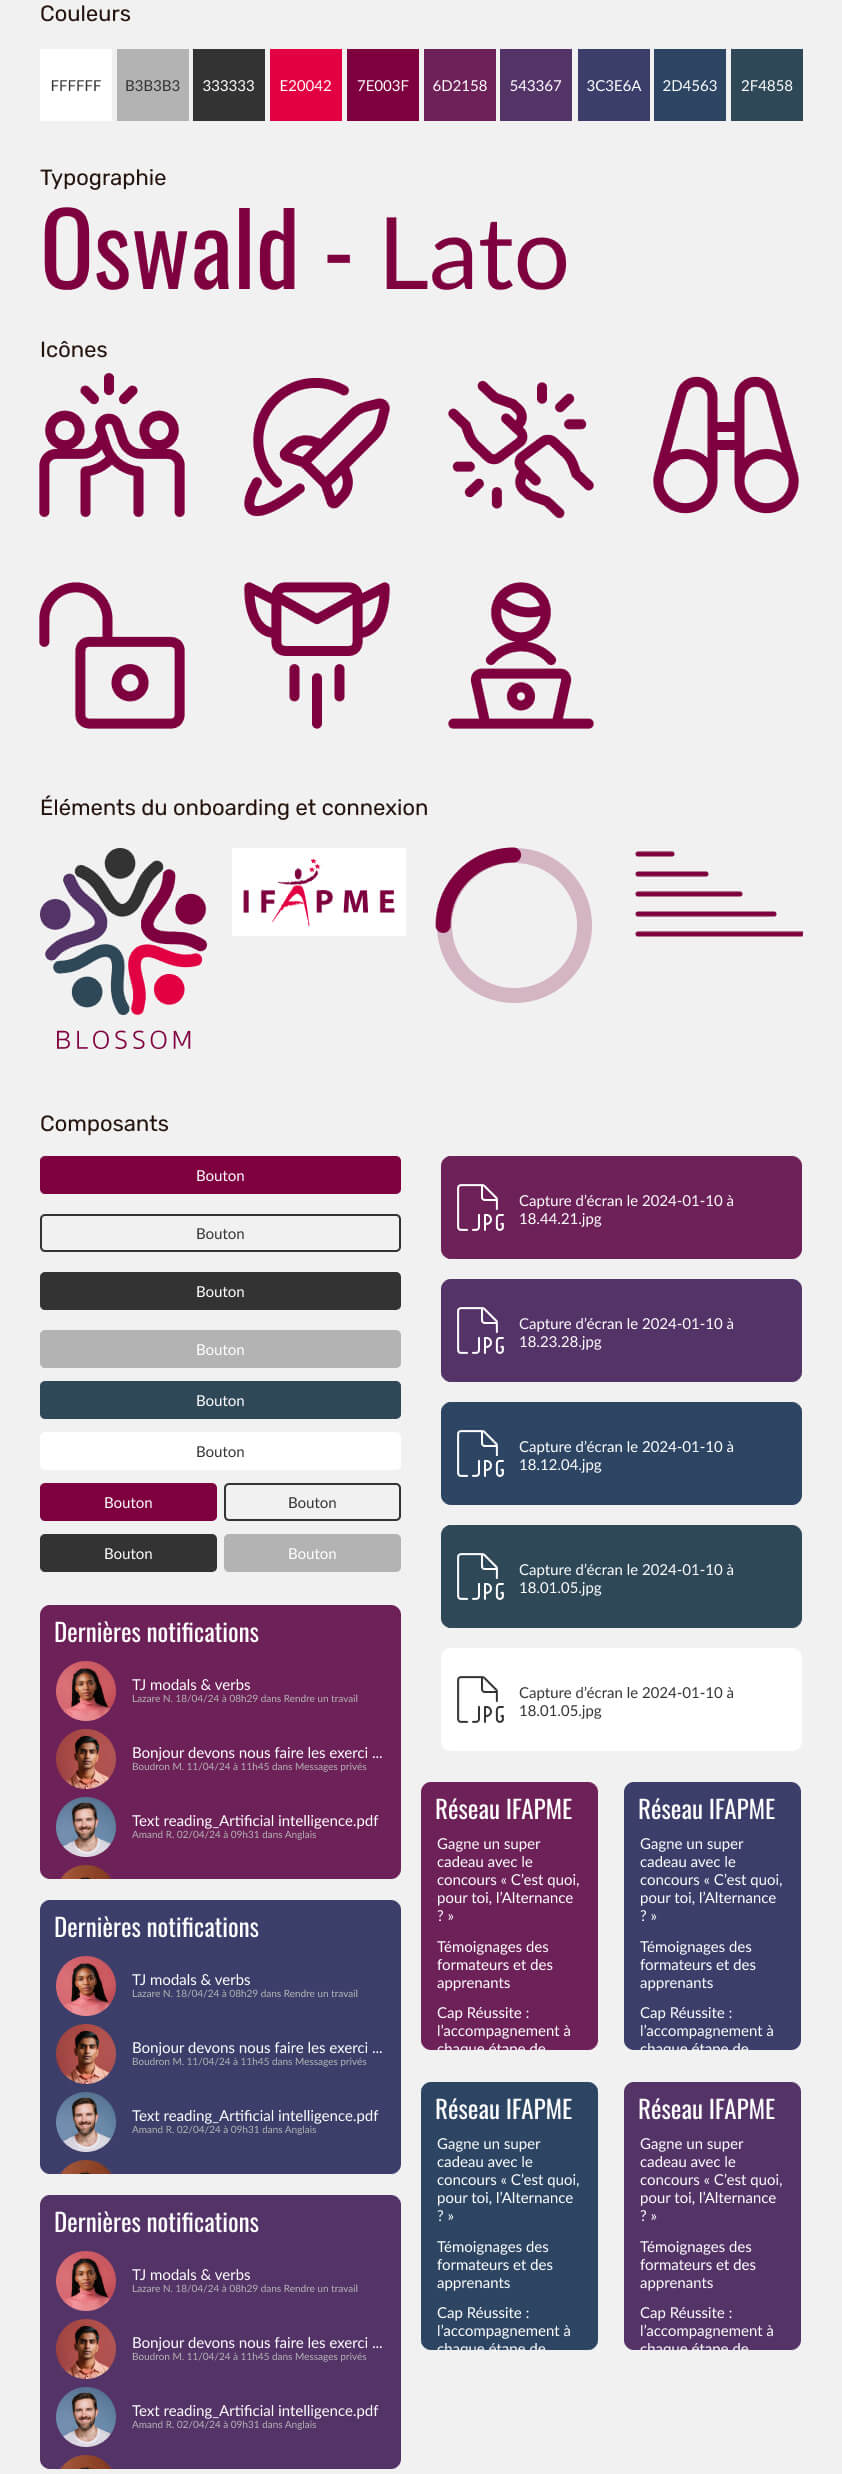
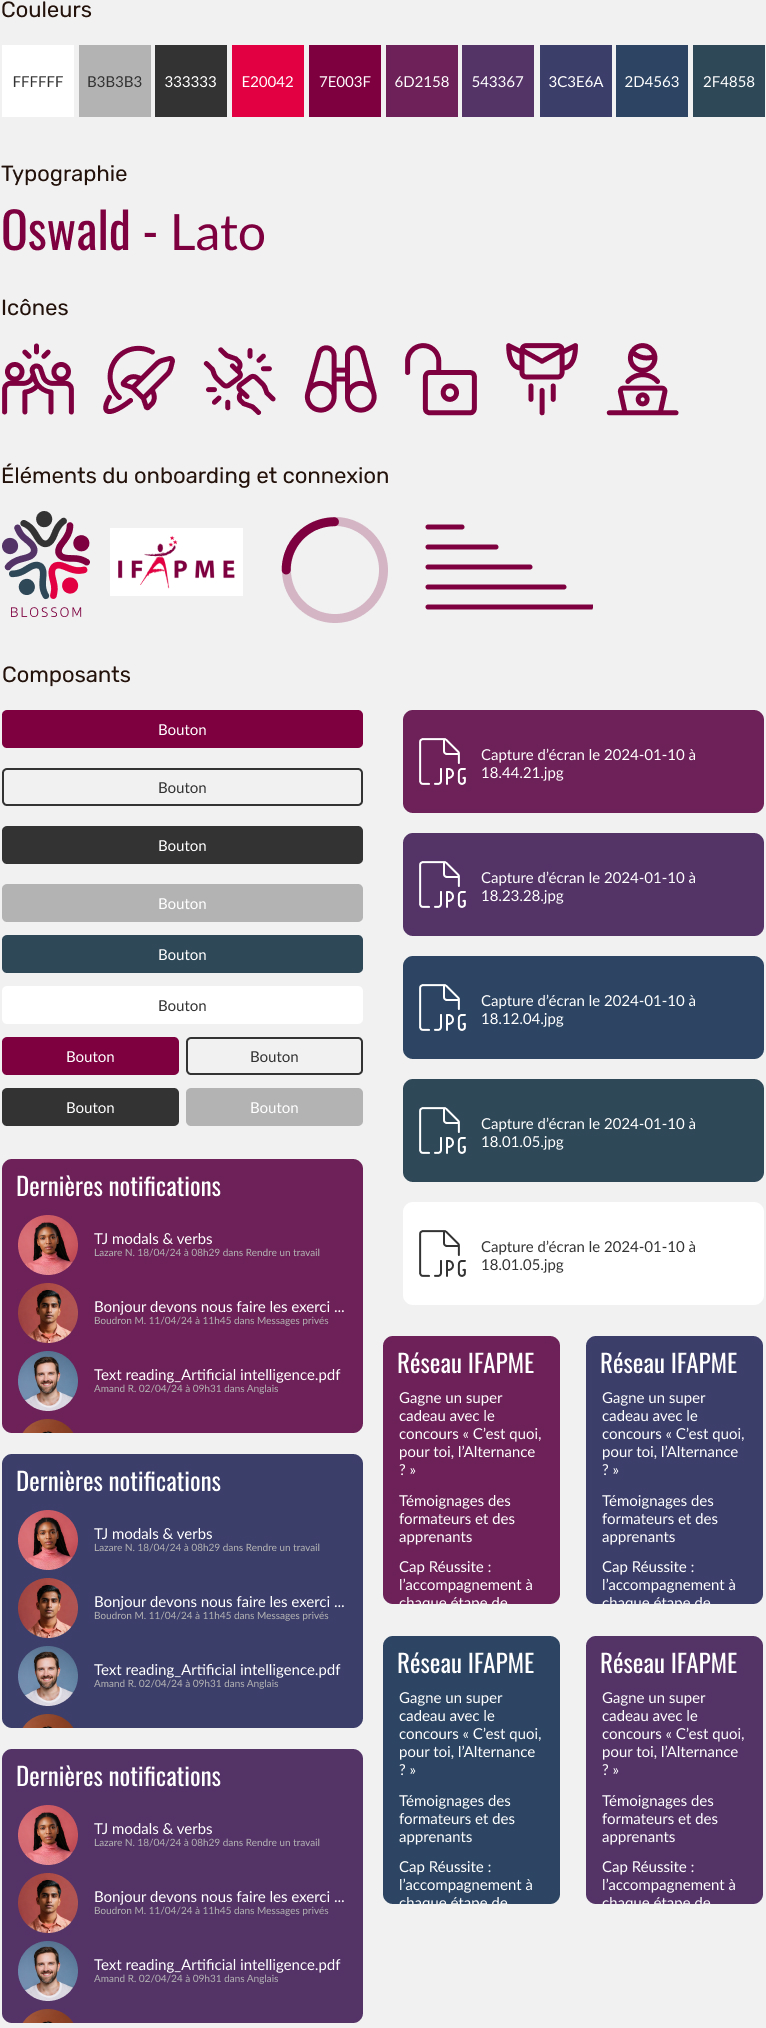
modification des images & modification responsive version mobile

diff --git a/css/styles.css b/css/styles.css
@@ -440,6 +440,7 @@ article.survey img{
     
     p {
         font-size: 12px;
+        width: 100%;
     }
 
     ul{
@@ -447,8 +448,9 @@ article.survey img{
     }
 
     h1 {
-        font-size: 150px;
+        font-size: 100px;
         margin: 0 20px;
+        width: 100%;
     }
 
     .normal_h1{
@@ -457,25 +459,33 @@ article.survey img{
     }
 
     h2 {
-        font-size: 32px;
+        font-size: 20px;
         display: block;
-        width: 470px;
+        width: 100%;
+    }
+
+    h2#h2_projects{
+        font-size: 20px;
+        display: block;
+        width: 100%;
     }
     
     h3 {
-        font-size: 20px;
-        width: 470px;
+        font-size: 18px;
+        width: 100%;
         display: inline;
     }
 
     /* Menu */
     header {
-        margin-top: 0px;
+        margin: 0px;
         background-color: #23120B;
+        width: 94%;
+        position: relative;
     }
 
     header div {
-        max-width: 480px;
+        width: 100%;
         margin: 0;
         padding: 0;
         background: none;
@@ -486,10 +496,10 @@ article.survey img{
     }
 
     nav ul li {
-        display: inline;
+        display: block;
         padding-bottom: 10px;
     }
-
+    
     nav ul li a {
         font-size: 12px;
         padding: 2px;
@@ -517,34 +527,34 @@ article.survey img{
 
     /* Introduction */
     .introduction {
-        margin-top: -100px;
+        margin-top: -170px;
     }
 
     main#homepage div.square img{
-        width: 94%;
+        width: 67%;
         margin: 0 20px 10px 20px;
     }
 
     main#homepage div.square.paragraph{
-        width: 420px;
+        width: 76%;
         height: 215px;
         margin: 0 20px;
-        padding-bottom: 0;
+        padding-bottom: 5px;
     }
 
     main#homepage div.square.paragraph a{
         font-size: 14px;
-        padding: 10px 110px;
+        padding: 10px 42px;
     }
 
     /* Testimonials */
     main#homepage section.testimonials{
-        margin: 50px 20px 0 20px;
+        margin: 50px 20px 0px 20px;
     }
 
     main#homepage div.testimonial{
         display: block;
-        width: 435px;
+        width: 100%;
     }
 
     main#homepage div.testimonial.second{
@@ -552,13 +562,13 @@ article.survey img{
     }
 
     .testimonials p{
-        width: 470px;
+        width: 100%;
     }
 
     /* Projets */
     section.projects.first_row{
         margin: 50px 20px 0 20px;
-        width: 470px;
+        width: 79%;
     }
 
     article.card img{
@@ -567,28 +577,28 @@ article.survey img{
 
     article.card{
         display: inline-block;
-        width: 430px;
+        width: 100%;
         margin-bottom: 15px;
     }
 
     section.projects.second_row{
         margin: 0px 20px;
-        width: 470px;
+        width: 79%;
     }
 
     section.projects.third_row{
         margin: 50px 20px 0 20px;
-        width: 470px;
+        width: 79%;
     }
 
     section.projects.fourth_row{
         margin: 0px 20px;
-        width: 470px;
+        width: 79%;
     }
 
     section.projects.fifth_row{
         margin: 50px 20px 0 20px;
-        width: 470px;
+        width: 79%;
     }
 
     /* About me */
@@ -599,7 +609,7 @@ article.survey img{
     div.personality{
         display: inline-block;
         vertical-align: top;
-        width: 470px;
+        width: 100%;
     }
 
     div.personality h3{
@@ -646,8 +656,8 @@ article.survey img{
         padding: 0;
     }
 
-    .informations {
-        max-width: 400px
+    .informations.a{
+        width: 100%;
     }
 
     .informations img{

diff --git a/index.html b/index.html
@@ -42,10 +42,12 @@
                     <p>“Benoit a rejoint l'équipe WeBIngecie en tant que stagiaire designer UI/UX pour une période de 3 mois. Sa maturité, son autonomie et sa capacité de réflexion nous ont déjà surpris !”</p>
                     <p class="blue_text">Héloïse Alsteens Freelance webdesigner</p>
                 </div>
+                <br>
                 <div class="testimonial second">
                     <p>“Lorem ipsum dolor sit amet, consectetur adipiscing elit, sed do eiusmod tempor incididunt ut !”</p>
                     <p class="blue_text">Evgeniya Rozhkova Former Product Designer at Bank Pumb</p>
                 </div>
+                <br>
                 <div class="testimonial third">
                     <p>“Ut enim ad minim veniam, quis nostrud exercitation ullamco laboris nisi ut aliquip ex ea commodo consequat.”</p>
                     <p class="blue_text">Joel parfait Kuate Formateur UX/UI Design à l'IFAPME de Dinant</p>
